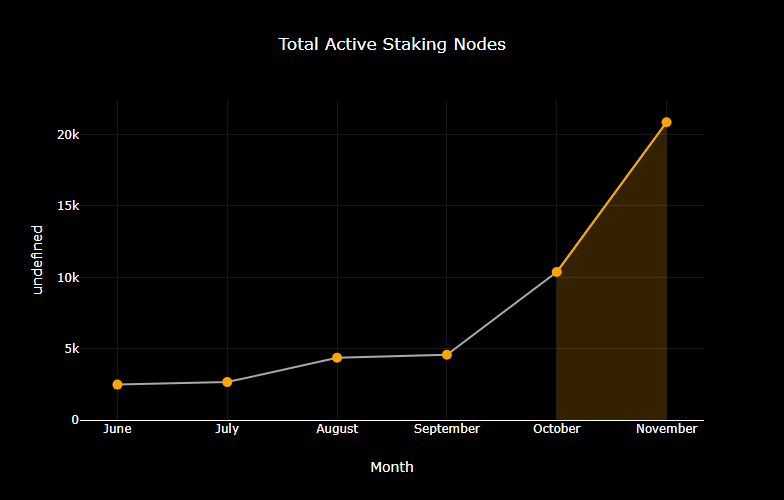
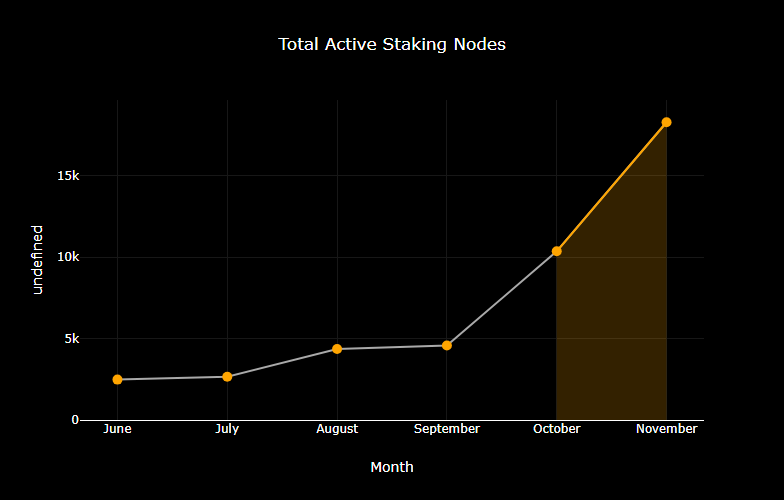
corrections to november state of network article

diff --git a/content/foundation/posts/swarm-state-of-the-network-november-2023.md b/content/foundation/posts/swarm-state-of-the-network-november-2023.md
@@ -80,7 +80,7 @@ This metric shows the average monthly earnings for an active staking node.
 
 ![chart-Avg-Total-Earnings-per-Node](/uploads/chart-Avg-Total-Earnings-per-Node-November.png)
 
-In November, the average earnings per active staking node decreased to 7.12 xBZZ. The decrease in average earnings per node is reflective of the recent dramatic growth in the number of active staking nodes, perhaps reflecting growing interest in the Swarm network from node operators.
+In November, the average earnings per active staking node decreased to 8.12 xBZZ. The decrease in average earnings per node is reflective of the recent dramatic growth in the number of active staking nodes, perhaps reflecting growing interest in the Swarm network from node operators.
 
 ## Total Active Staking Nodes by Month
 
@@ -97,7 +97,7 @@ This metric shows the total active staking nodes by month.
 
 ![chart-Total-Active-Staking-Nodes](/uploads/chart-Total-Active-Staking-Nodes-November.png)
 
-November saw a significant increase in active staking nodes, rising to 20,868, which is a growth of just over 100% from the previous month. This continues the recent trend of rapid growth in the number of active staking nodes.
+November saw a significant increase in active staking nodes, rising to 18,297, which is a growth of just over 100% from the previous month. This continues the recent trend of rapid growth in the number of active staking nodes.
 
 ## Total Winning Nodes by Month
 
@@ -130,7 +130,7 @@ This metric shows the total number of active staking nodes across the top four c
 | October       | 6,242  | 2,042    | 1,543    | 175     | 282           | 91    |
 | **November**      | **14,270** | **1,976**    | **1,531**    | **113**      | **344**           | **63**   |
 
-![Total Staking Nodes by Country.png](/uploads/Total-Active-Staking-Nodes-by-Country.png)
+![Total Staking Nodes by Country.png](/uploads/Total-Active-Staking-Nodes-by-Country-November.png)
 
 November observed a shift in the distribution of active staking nodes across countries, with China continuing to lead and experiencing a significant increase in node growth. Notably, Finland and the USA also saw moderate increases in node counts since October. This shift reflects the dynamic and evolving geographic distribution of network participants.
 
